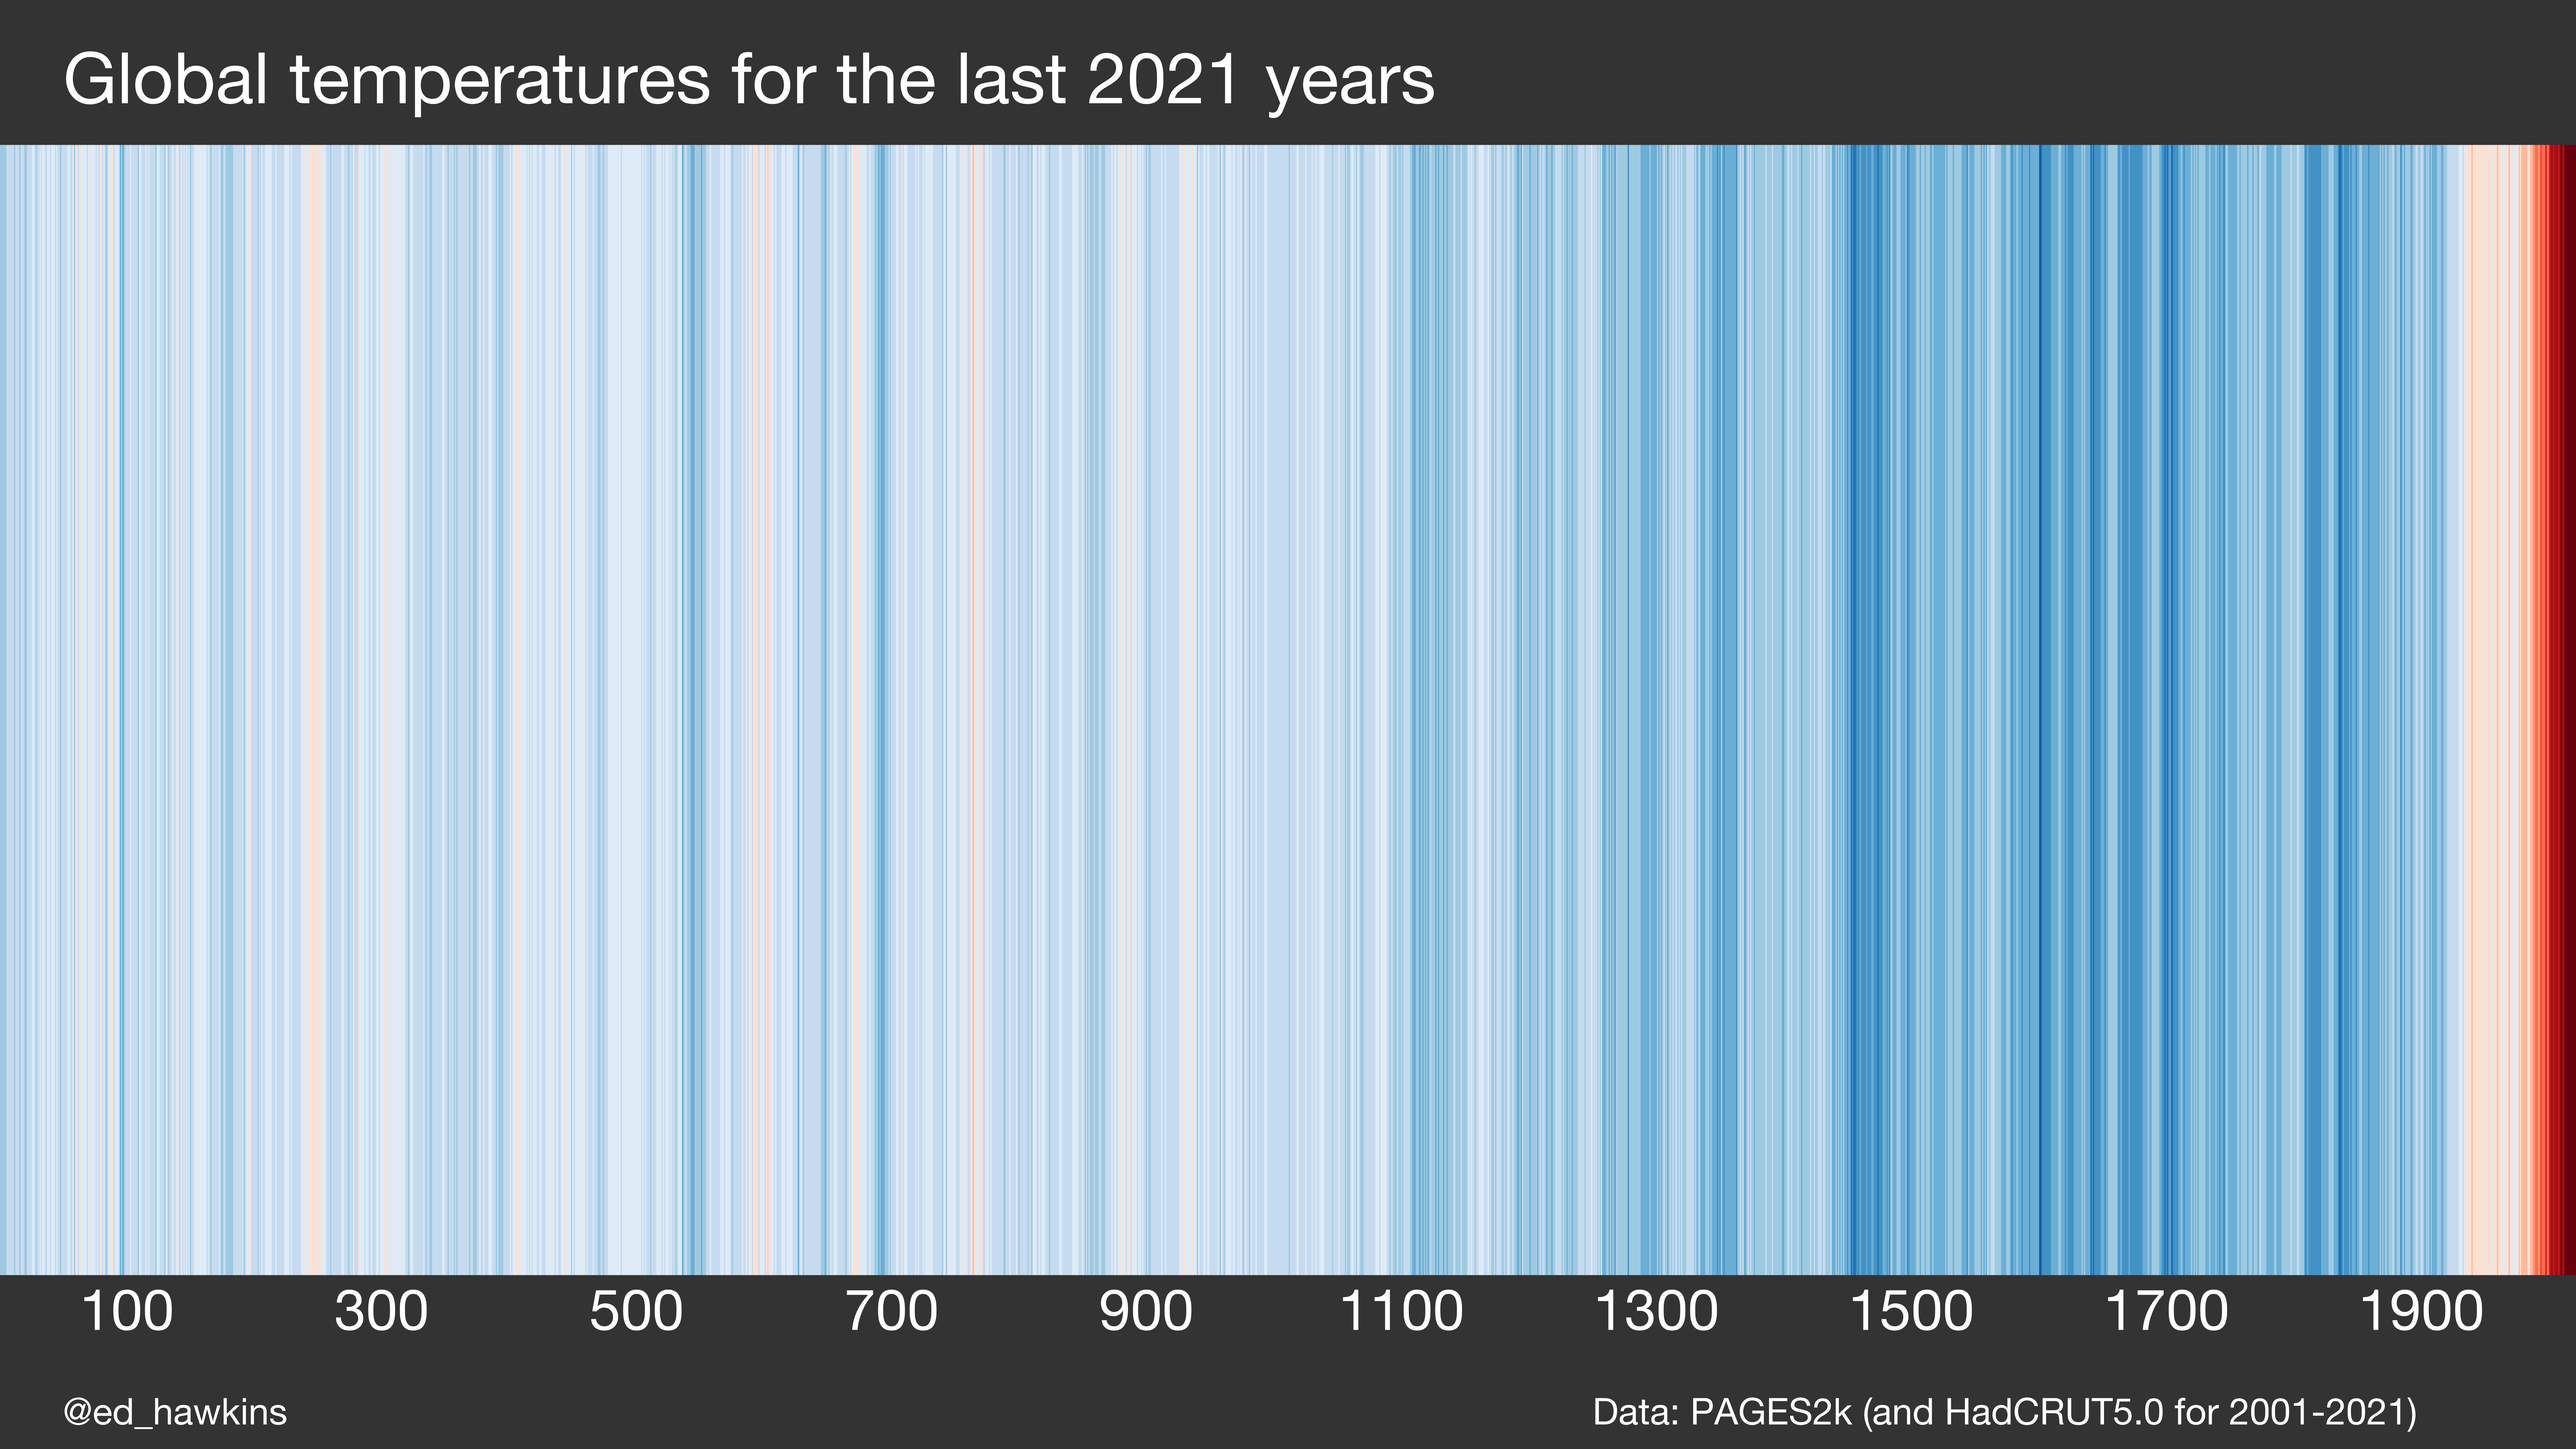
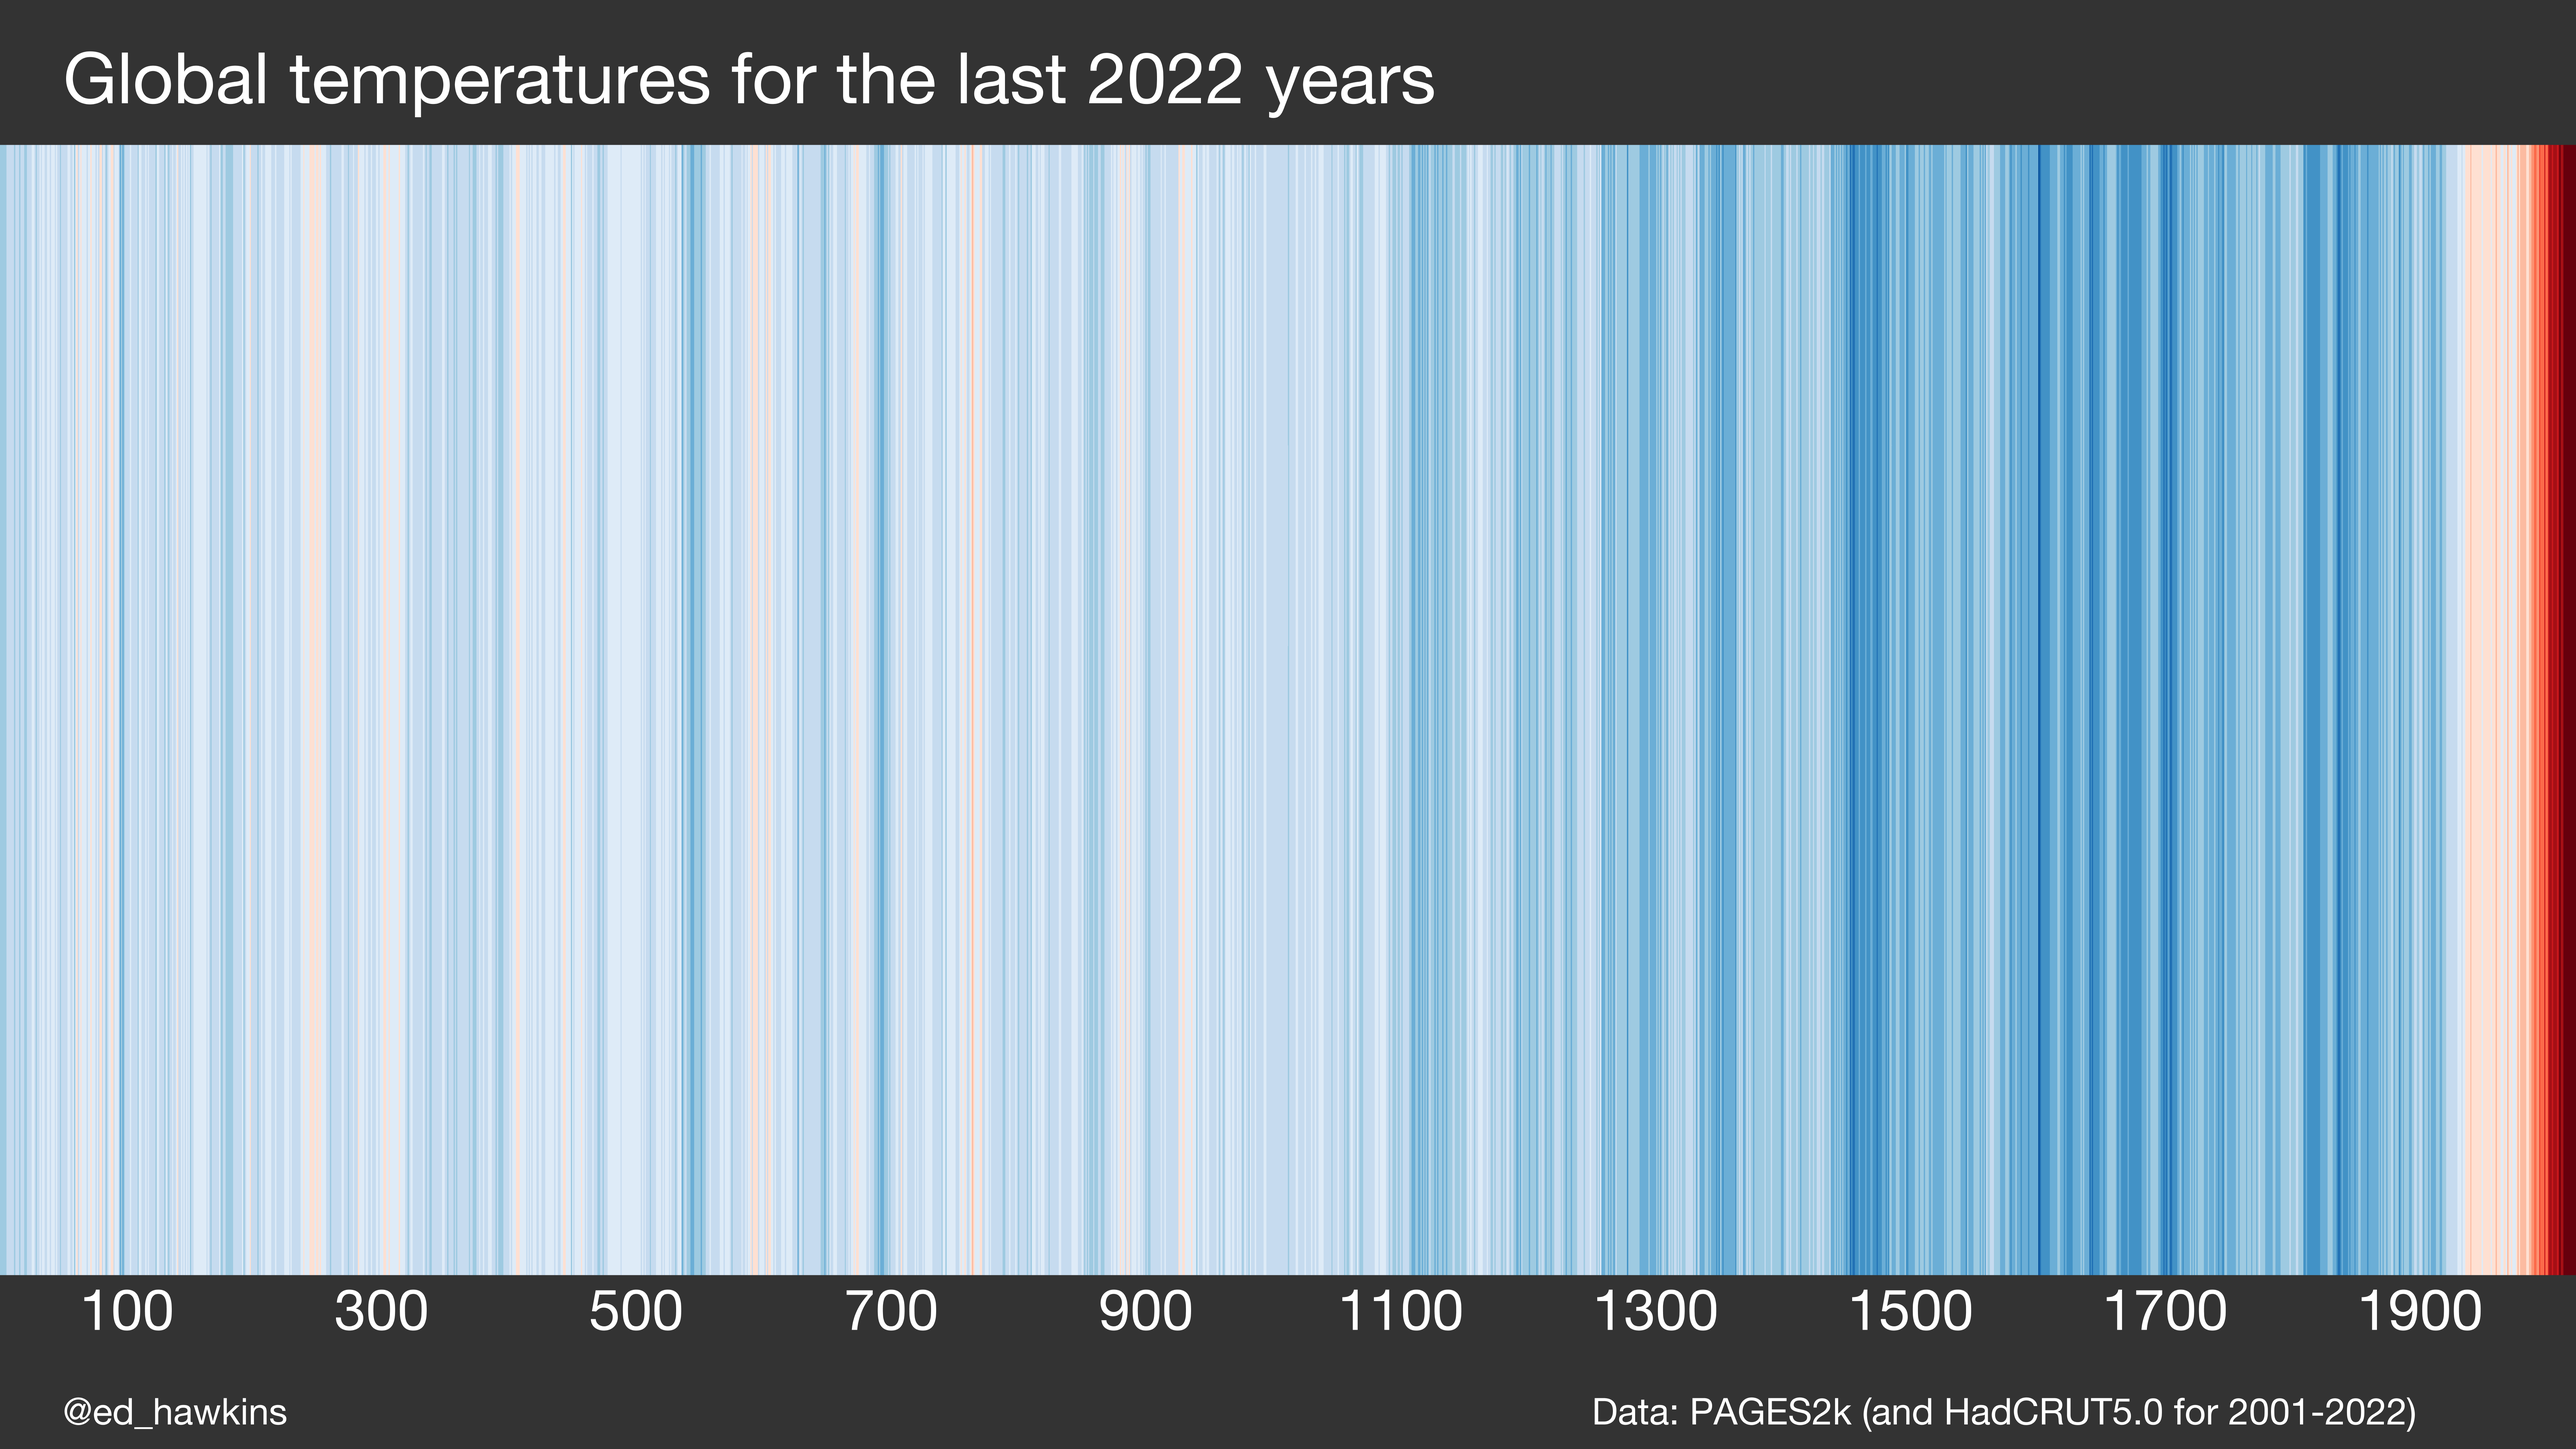
Updated paleo stripes to include 2022

diff --git a/stripes.md b/stripes.md
@@ -6,7 +6,9 @@
 ### Global warming stripes for the last 2000 years
 [![Paleo Global Stripes](PALEO-STRIPES/PAGES2k-STRIPES-hires.png)](PALEO-STRIPES/PAGES2k-STRIPES-hires.png)
 
-[![Paleo Global Stripes as bar chart (white)](PALEO-STRIPES/PAGES2k-BARS-1-2021-white.png)](PALEO-STRIPES/PAGES2k-BARS-1-2021-white.png)
+[![Paleo Global Stripes as bar chart (white)](PALEO-STRIPES/PAGES2k-BARS-1-2022-white.png)](PALEO-STRIPES/PAGES2k-BARS-1-2022-white.png)
 
-[![Paleo Global Stripes as bar chart (black)](PALEO-STRIPES/PAGES2k-BARS-1-2021-black.png)](PALEO-STRIPES/PAGES2k-BARS-1-2021-black.png)
+[![Paleo Global Stripes as bar chart (white)](PALEO-STRIPES/PAGES2k-BARS-1-2022-white-withCO2.png)](PALEO-STRIPES/PAGES2k-BARS-1-2022-white-withCO2.png)
+
+[![Paleo Global Stripes as bar chart (black)](PALEO-STRIPES/PAGES2k-BARS-1-2022-black.png)](PALEO-STRIPES/PAGES2k-BARS-1-2022-black.png)
 
